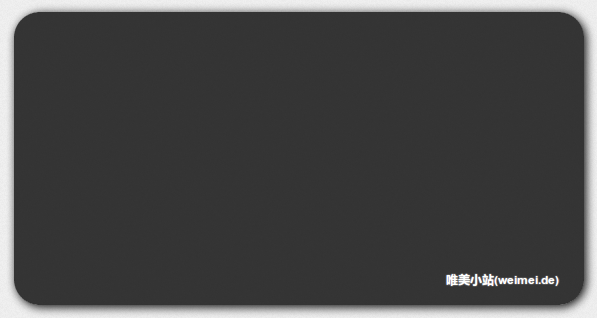
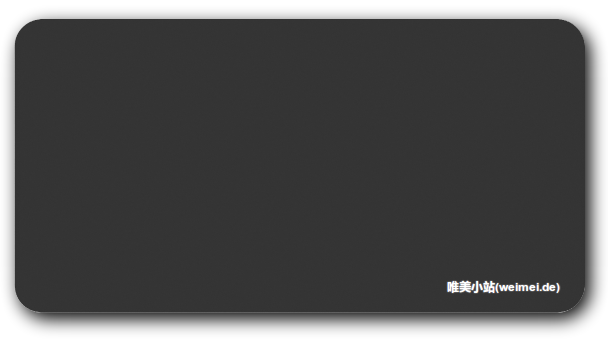
修改个人档中的背景图片颜色问题

Changed region(s): [[0.0, 0.0, 0.995, 1.0]]

diff --git a/style/css/style.css b/style/css/style.css
@@ -273,7 +273,7 @@ input[type="text"] {
     line-height: 18px;
 }
 #latest-user-avatar img {
-    border: 1px solid #fff;
+    border: 1px solid #ccc;
     padding: 1px;
 }
 #latest-comments {
@@ -291,7 +291,7 @@ input[type="text"] {
     margin-right: 5px;
 }
 .l-c-i-avatar {
-    border: 1px solid #fff;
+    border: 1px solid #ccc;
 }
 
 #indexContent{
@@ -696,7 +696,7 @@ ul.ihome-nav a {
     margin: 60px auto 0;
     padding-left: 68px;
     padding-top: 64px;
-    width: 529px;
+    width: 550px;
 }
 #idcard img {
 	border: 2px solid #FFFFFF;
